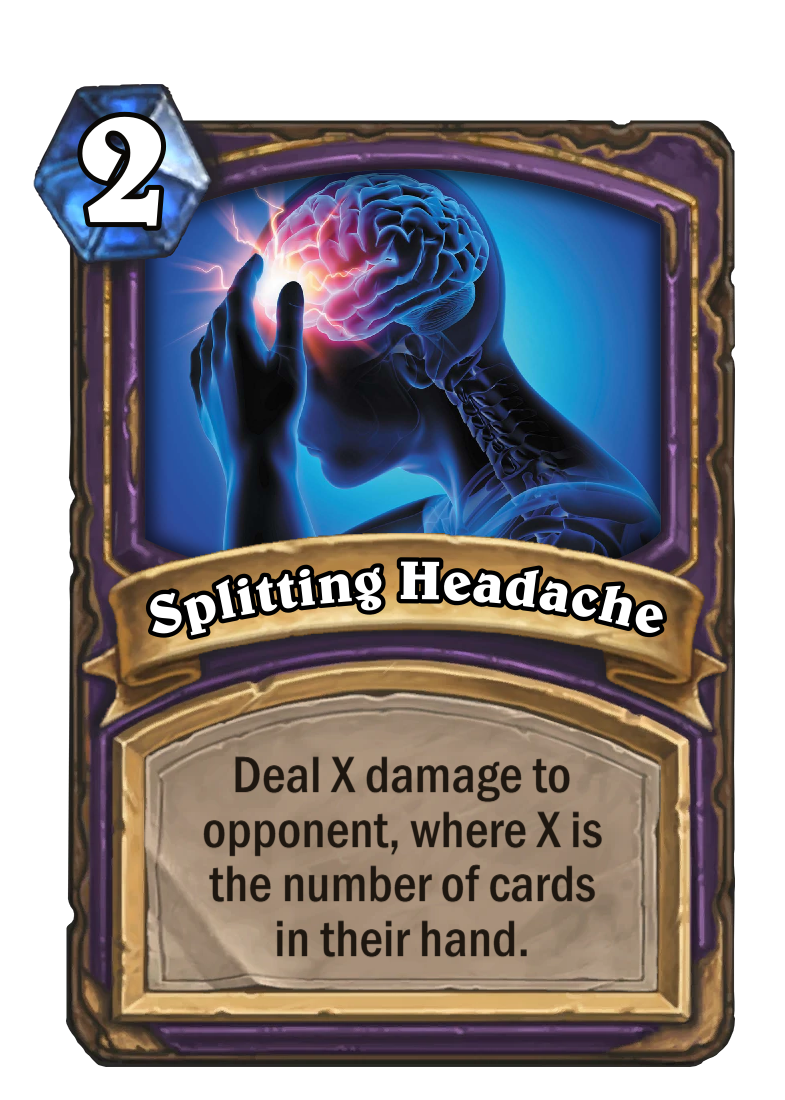
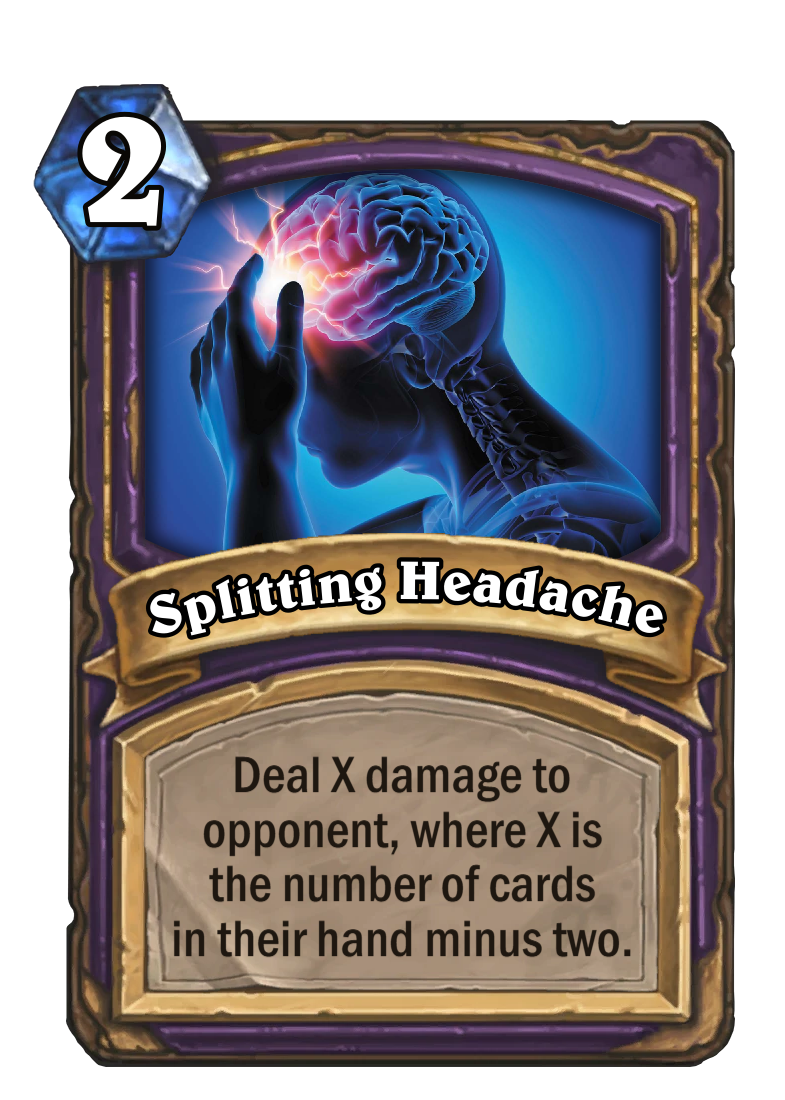
Nerf Splitting Headache

Changed region(s): [[0.214, 0.8345, 0.7949, 0.8964]]

diff --git a/src/Cards/CardImplementations/SplittingHeadache.h b/src/Cards/CardImplementations/SplittingHeadache.h
@@ -10,6 +10,6 @@ public:
     [[nodiscard]] int getManaCost() const override { return 2; }
     [[nodiscard]] std::string getName() const override { return "Splitting Headache"; }
     [[nodiscard]] std::string getRulesText() const override {
-        return "Deal X damage to opponent, where X is the number of cards in their hand.";
+        return "Deal X damage to opponent, where X is the number of cards in their hand minus two.";
     }
 };

diff --git a/src/Cards/CardImplementations/SplittingHeadache.cpp b/src/Cards/CardImplementations/SplittingHeadache.cpp
@@ -3,5 +3,7 @@
 void SplittingHeadache::resolve(Game& game, PlayerID controller) {
     PlayerID opponent = PlayerIDUtils::getOpponent(controller);
     auto damageAmount = game.getHandSize(opponent);
+    if (damageAmount < 2) damageAmount = 0;
+    else damageAmount -= 2;
     game.dealDamage(opponent, damageAmount);
 }
